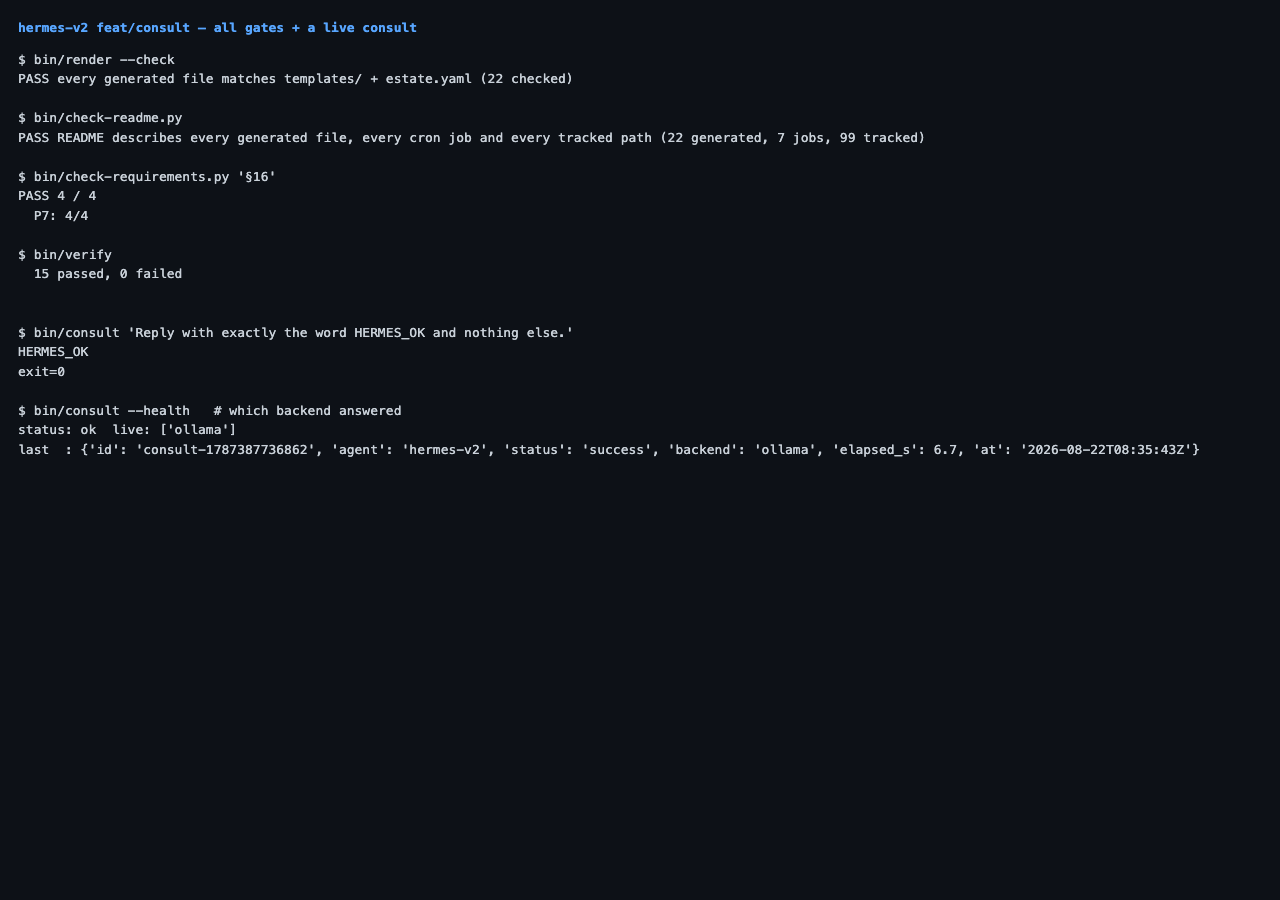
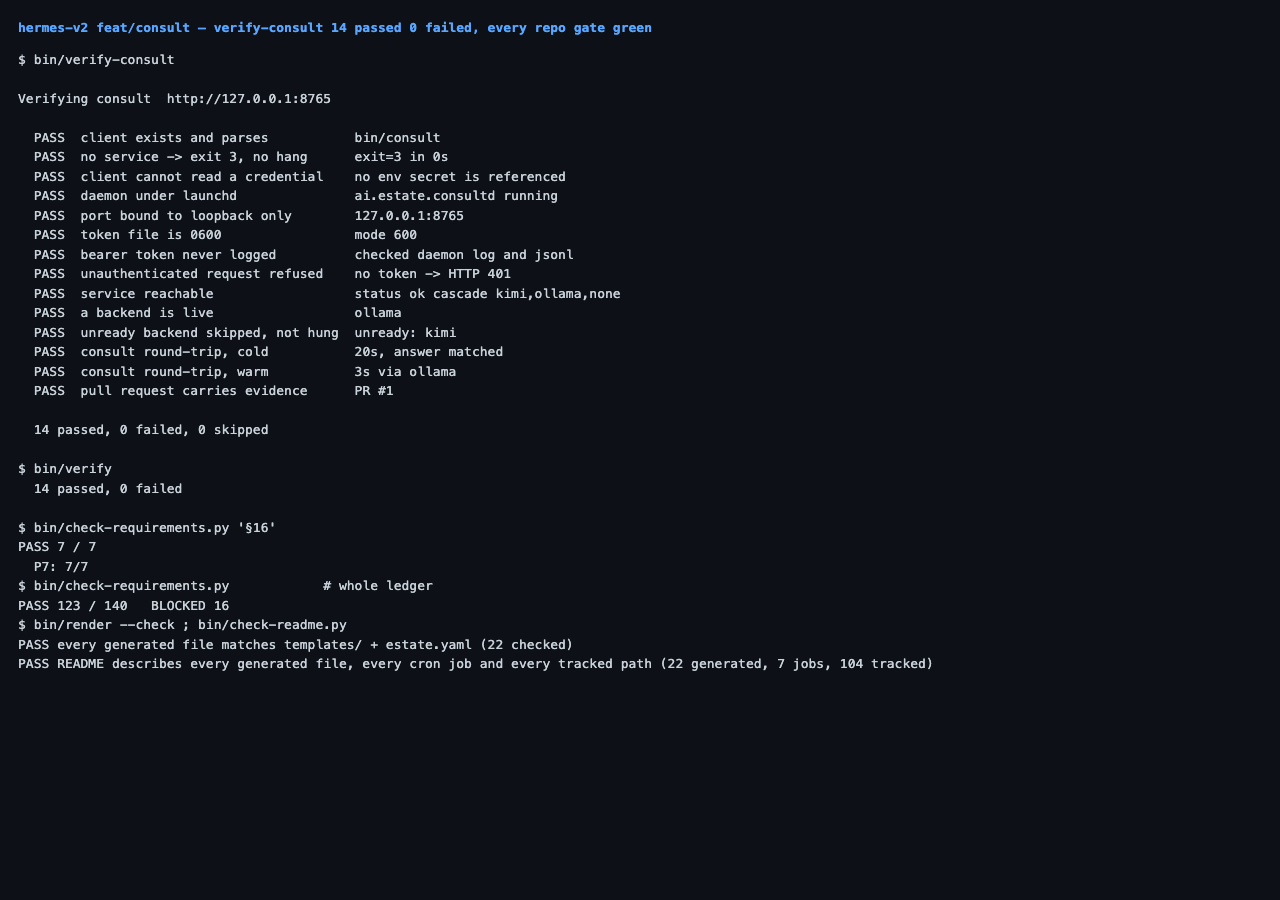
Re-render the PR #1 evidence, and drop the README row for the image a peer removed
The evidence image now shows verify-consult, which is the run the founder asked
to see attached.

Re-rendering it needed a fix in pr-evidence.py first. Its capture loop treats
"the file is there" as "Chrome has finished", so when an image already existed
at the output path that was true on the first iteration: Chrome was killed
before writing, the old image survived, and the tool printed a success line.
Every re-render of evidence was a silent no-op. Measured by feeding two
different inputs to one path and getting one sha256 out; fixed by unlinking
first, and the same measurement now gives two.

Claude-Session: https://claude.ai/code/session_01JNbHQfXyBThNYMngKTsy8A

diff --git a/README.md b/README.md
@@ -292,8 +292,7 @@ are tracked, so what you see below is the source they come from.
 | `docs/THE-ARCHITECT.md` | The spec. Every requirement row deep-links to the section it came from, so nothing is in this repo without a paragraph that asked for it. |
 | `docs/evidence/` | A screenshot of the passing run for each pull request, committed to the branch rather than uploaded to GitHub. Evidence stored in the vendor leaves with the vendor; an image in the branch travels out with the git bundle. |
 | `docs/evidence/pr-1/` | PR #1, the consult client: every gate and one live consult in a single frame. |
-| `docs/evidence/pr-1/gates-green.png` | `render --check`, `check-readme`, `check-requirements §16`, `verify`, and `bin/consult` returning an answer with exit 0. |
-| `docs/evidence/pr-1/20260822T083732Z-1.png` | The same frame as attached to the pull request, kept under its timestamp so a later attach never overwrites an earlier proof. |
+| `docs/evidence/pr-1/gates-green.png` | Every gate and one live consult in a single frame: `render --check`, `check-readme`, `check-requirements §16`, `verify`, `verify-consult`, and `bin/consult` returning an answer with exit 0. One image per pull request, overwritten rather than accumulated, so there is never a question about which frame is current. |
 | `estate-evals/` | The incident record, and what each incident bought. |
 | `estate-evals/incidents.example.jsonl` | Worked examples of the incident format: symptom, root cause, the class of mistake, and the rung and artifact that now prevent it. Your own `incidents.jsonl` is not tracked. |
 | `estate.example.yaml` | The one file you edit, filled in and commented. Copy it, change it, and `./install --estate` sets a machine up without asking a single question. |
